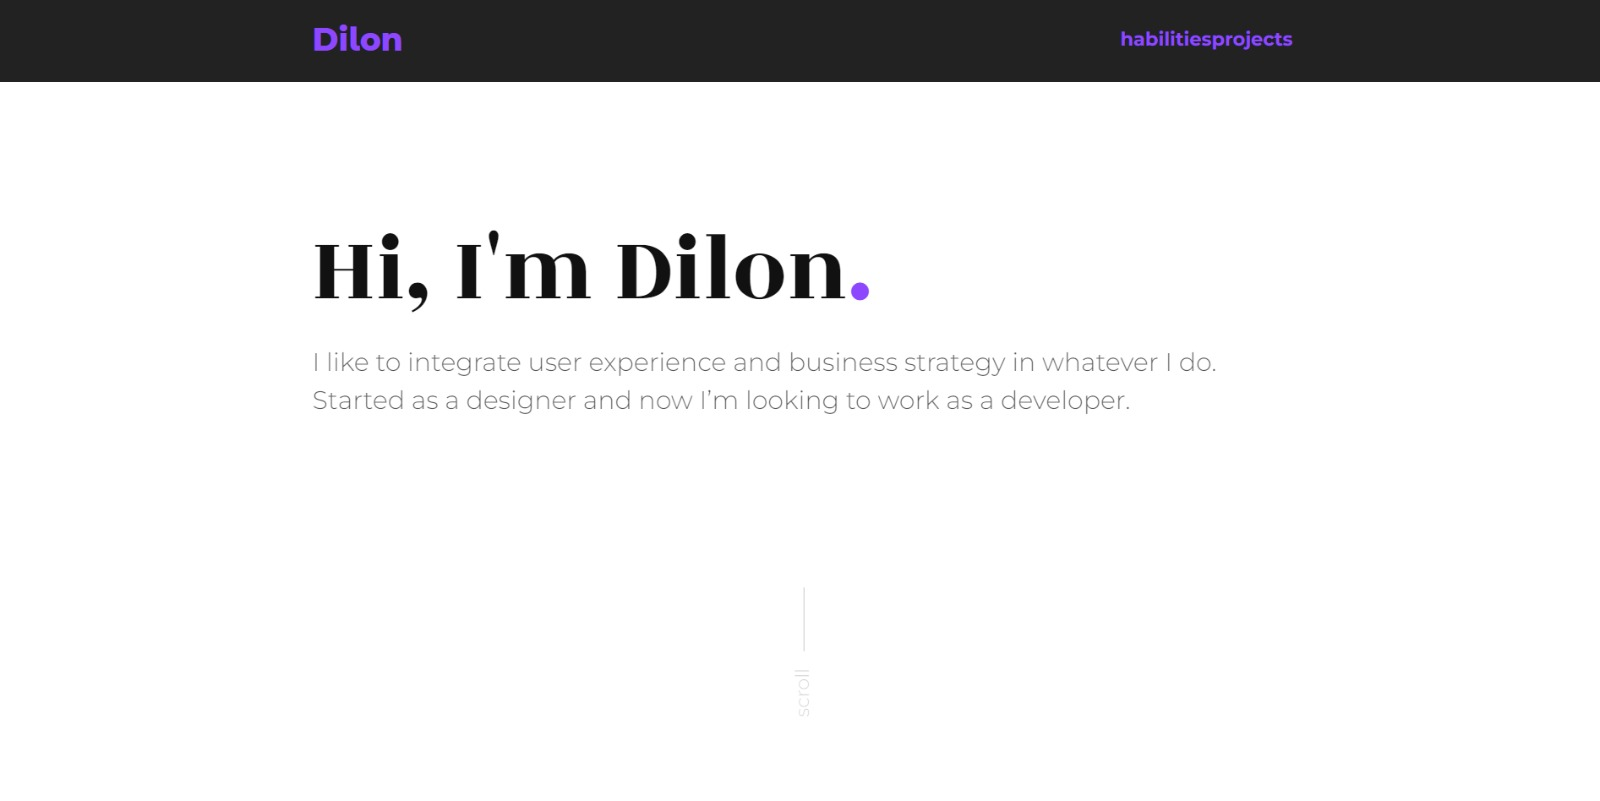
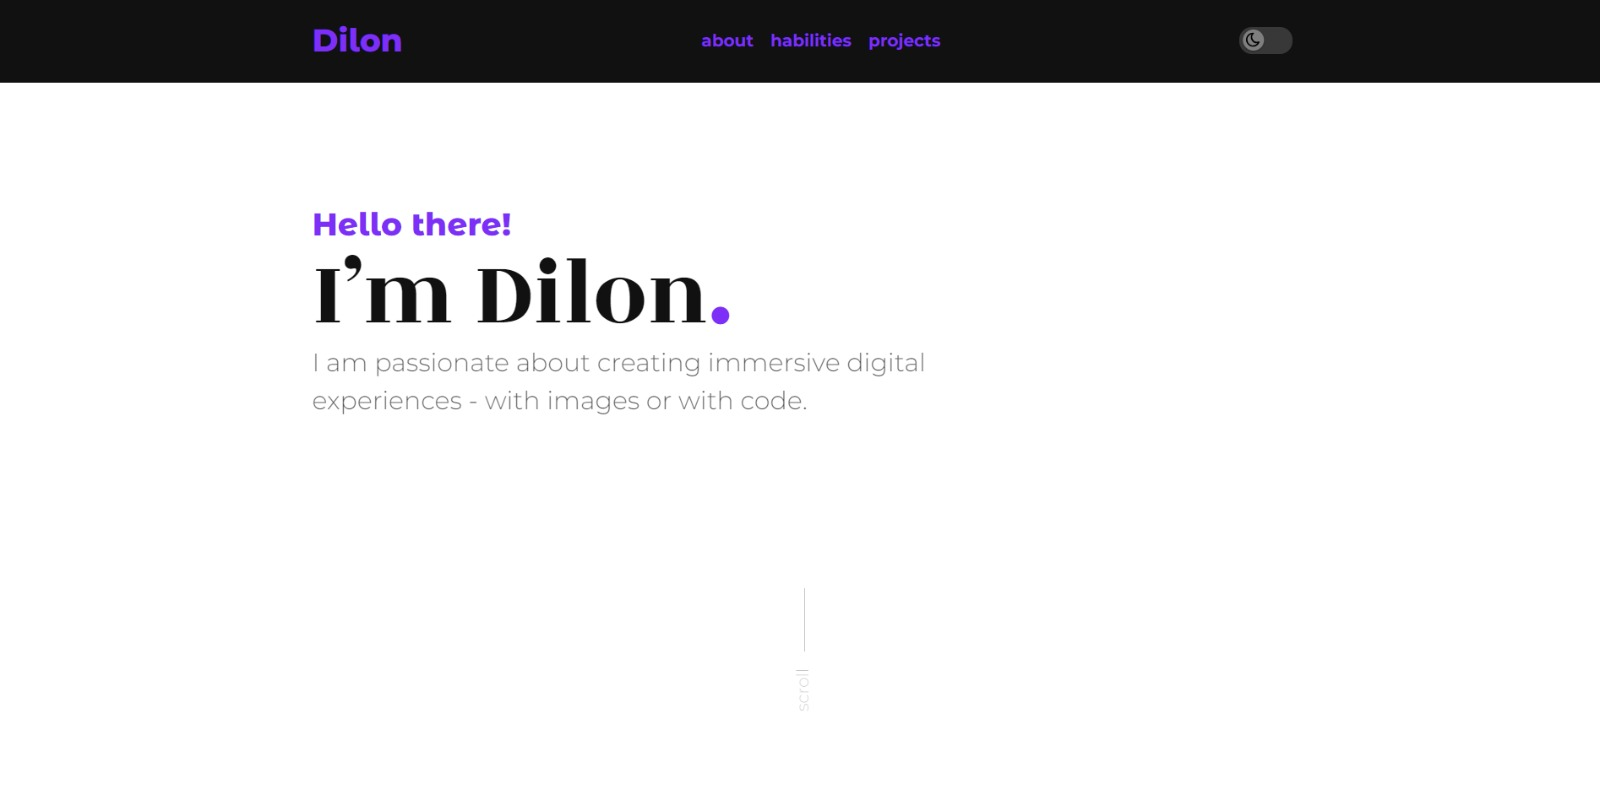
Final content (text and image)

diff --git a/src/components/patterns/Projects/index.tsx b/src/components/patterns/Projects/index.tsx
@@ -15,22 +15,22 @@ export default function Projects() {
         <ul className='projects'>
           {projects.map((proj, index) => (
             <li className='project' key={index}>
+              <div className='project__text'>
+                <Text color='primary' style={{ fontWeight: 700, opacity: 1 }}>{proj.name}</Text>
+                <ArrowButton href={proj.link} target='_blank'>See this</ArrowButton>
+              </div>
               <a
                 href={proj.link}
                 target='_blank'
                 className='project__image'
                 style={{ backgroundImage: `url(${proj.image})` }}
               >
-                <div className='project__icons'>
-                  {proj.categories.map(cat => {
-                    const catAtual = habilities.find(hab => hab.slug === cat);
-                    return catAtual && <div><catAtual.Icon size={26} key={cat} title={catAtual.name} /></div>
-                  })}
-                </div>
               </a>
-              <div className='project__text'>
-                <Text style={{fontWeight: 700, opacity: 1 }}>{proj.name}</Text>
-                <ArrowButton href={proj.link} target='_blank'>See this</ArrowButton>
+              <div className='project__icons'>
+                {proj.categories.map(cat => {
+                  const catAtual = habilities.find(hab => hab.slug === cat);
+                  return catAtual && <div><catAtual.Icon size={26} key={cat} title={catAtual.name} /></div>
+                })}
               </div>
             </li>
           ))}

diff --git a/src/components/patterns/Projects/styled.jsx b/src/components/patterns/Projects/styled.jsx
@@ -32,6 +32,7 @@ export const StyledProjects = styled.section`
         transition: 0.3s;
         filter: grayscale(100%);
         opacity: 0.8;
+        margin: .5rem 0;
 
         &:hover {
           box-shadow: 0 4px 15px rgba(0,0,0,0.2);
@@ -41,12 +42,12 @@ export const StyledProjects = styled.section`
       }
 
       &__icons {
-        position: absolute;
+        /* position: absolute;
         bottom: 0;
-        right: 0;
+        right: 0; */
         display: flex;
-        gap: 1rem;
-        padding: 0.5rem;
+        gap: .5rem;
+        /* padding: 0.5rem; */
         color: ${props => props.theme.colors.neutral.x900};
 
         > div {
@@ -63,6 +64,8 @@ export const StyledProjects = styled.section`
         padding-top:0.5rem;
         display: flex;
         justify-content: space-between;
+        align-items: center;
+        flex-basis: 50%;
       }
     }
   }
@@ -75,8 +78,8 @@ export const StyledProjects = styled.section`
 
   @media (max-width: ${props => props.theme.breakpoints.sm}px){
     .project__icons {
-      justify-content: right;
-      flex-wrap: wrap-reverse;
+      /* justify-content: right; */
+      flex-wrap: wrap;
     }
   }
 `

diff --git a/src/components/patterns/About/index.jsx b/src/components/patterns/About/index.jsx
@@ -12,7 +12,8 @@ export default function About() {
     <StyledAbout>
       <div className='container' id='about'>
         <div className='about__text'>
-          <Text>I started as a designer in 2009, graduated in 2014 and as I go... Lorem ipsum dolor sit amet gravida opored ipsum dolor sit amet gravida opored ipsum dolor sit amet gravida opored.</Text>
+          <Text as='h2' variant='heading2'>About<span className='dot'>.</span></Text>
+          <Text>My degree says "designer", but to be honest, I've always been a developer at heart (I learned HTML before I even discovered Photoshop). Transforming thousands of characters into real solutions has always fascinated me and so I finally decided to focus on what I love to do: coding. Yes, after working in design for over a decade, this is the year I make my career transition.</Text>
           <div className='about__numbers'>
             <div className='about__number'>
               <TbBrush size={50} />

diff --git a/src/components/patterns/InitialBanner/index.jsx b/src/components/patterns/InitialBanner/index.jsx
@@ -7,8 +7,9 @@ export default function InitialBanner() {
     <StyledBanner>
       <div className='container'>
         <div className='banner__text'>
-          <Text as='h1' variant='display1'>Hi, I'm Dilon<span className='dot'>.</span></Text>
-          <Text variant='body1'>I like to integrate user experience and business strategy in whatever I do. Started as a designer and now I’m looking to work as a developer.</Text>
+          <Text as='h2' variant='heading3' color='primary'>Hello there!</Text>
+          <Text as='h1' variant='display1'>I’m Dilon<span className='dot'>.</span></Text>
+          <Text variant='body1' style={{maxWidth: '600px'}}>I am passionate about creating immersive digital experiences - with images or with code.</Text>
         </div>
         <div className='banner__scroll'>
           <Text>scroll</Text>

diff --git a/src/theme/defaults/typography.ts b/src/theme/defaults/typography.ts
@@ -5,10 +5,10 @@ export const typography = {
       fontFamily: '"Rozha One", serif',
       fontWeight: '400',
       lineHeight: {
-        xs: '1.5',
+        xs: '1em',
       },
       fontSize: {
-        xs: '42px',
+        xs: '50px',
         md: '90px',
       },
     },
@@ -84,8 +84,8 @@ export const typography = {
         xs: '1.5',
       },
       fontSize: {
-        xs: '16px',
-        md: '18px',
+        xs: '15px',
+        md: '16px',
       },
       opacity: '0.7',
     },

diff --git a/src/components/patterns/InitialBanner/styled.jsx b/src/components/patterns/InitialBanner/styled.jsx
@@ -14,8 +14,9 @@ export const StyledBanner = styled.section`
       display: flex;
       justify-content: center;
       align-items: center;
-      padding: 10rem 0;
-      opacity: 0.3;
+      padding-top: 10rem;
+      padding-bottom: 8rem;
+      opacity: 0.35;
       writing-mode: vertical-lr;
       
       p {
